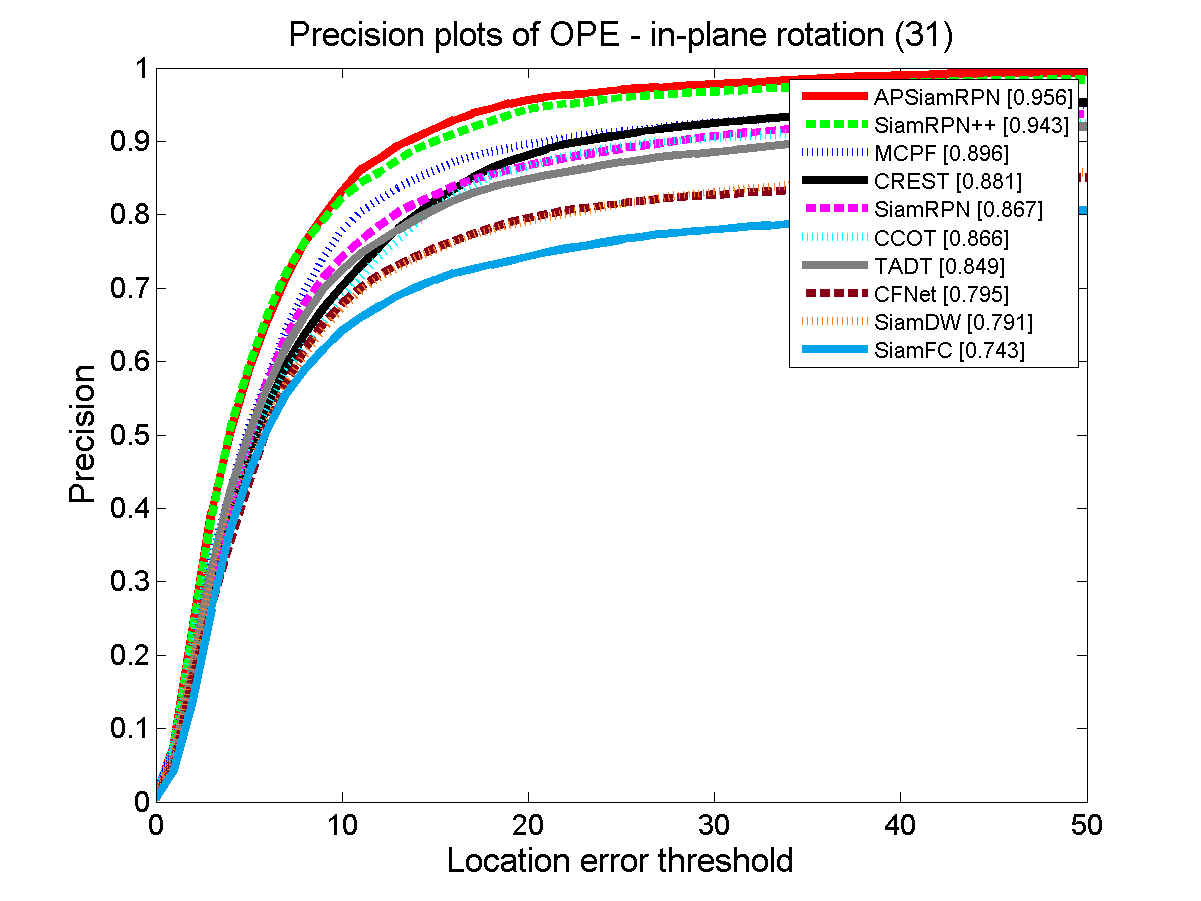
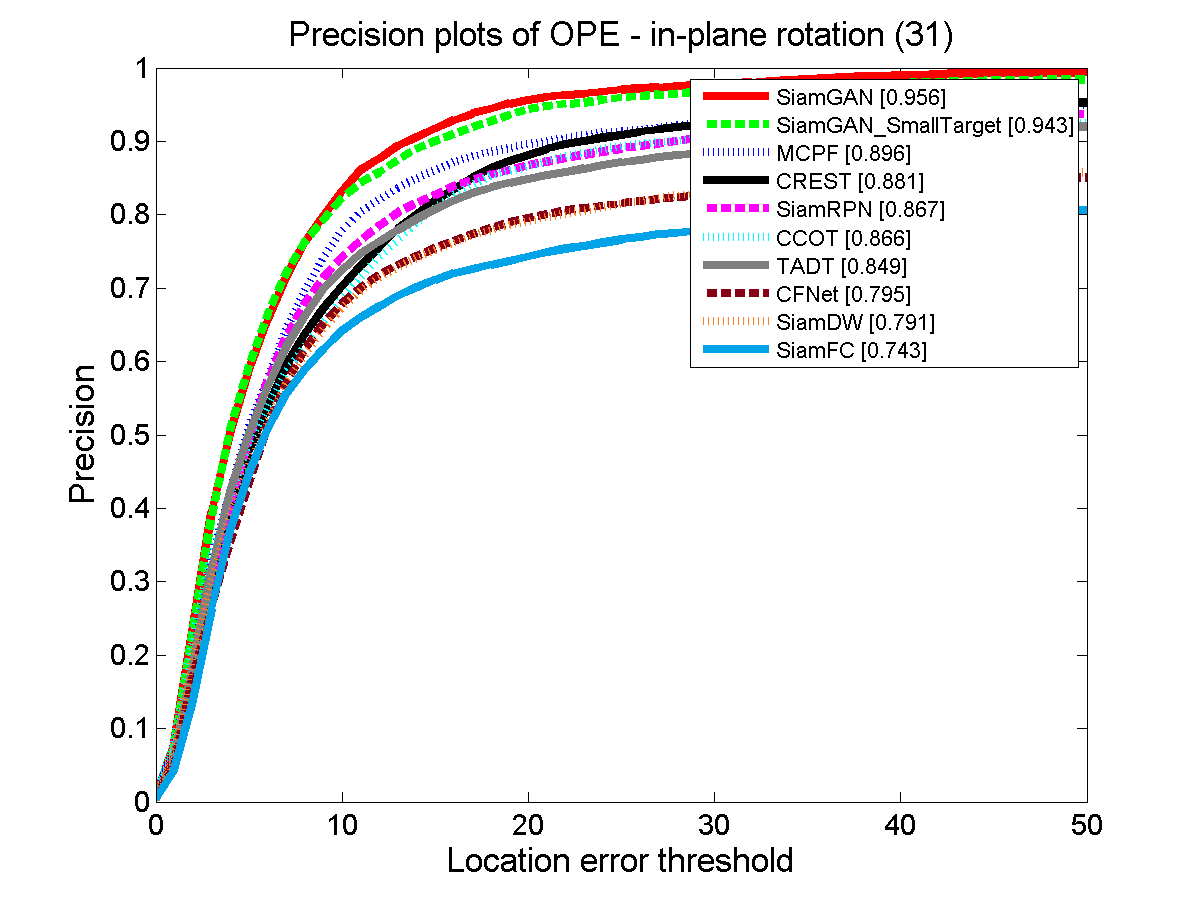
new

Changed region(s): [[0.5545, 0.0622, 0.8934, 0.404]]

diff --git a/tracker_benchmark_v1.0/perfPlot.m b/tracker_benchmark_v1.0/perfPlot.m
@@ -7,8 +7,9 @@ addpath('./util');
 attPath = '.\anno\att\'; % The folder that contains the annotation files for sequence attributes
 
 attName={'illumination variation'	'out-of-plane rotation'	'scale variation'	'occlusion'	'deformation'	'motion blur'	'fast motion'	'in-plane rotation'	'out of view'	'background clutter' 'low resolution'};
-
 attFigName={'illumination_variations'	'out-of-plane_rotation'	'scale_variations'	'occlusions'	'deformation'	'blur'	'abrupt_motion'	'in-plane_rotation'	'out-of-view'	'background_clutter' 'low_resolution'};
+% attName={'Small Target'	'Normal'	'scale variation'	'occlusion'	'deformation'	'motion blur'	'fast motion'	'in-plane rotation'	'out of view'	'background clutter' 'low resolution'};
+% attFigName={'Small Target'	'Normal'	'scale_variations'	'occlusions'	'deformation'	'blur'	'abrupt_motion'	'in-plane_rotation'	'out-of-view'	'background_clutter' 'low_resolution'};
 
 
 plotDrawStyleAll={   struct('color',[1,0,0],'lineStyle','-'),...

diff --git a/tracker_benchmark_v1.0/util/configTrackers.m b/tracker_benchmark_v1.0/util/configTrackers.m
@@ -8,8 +8,8 @@ trackersVIVID={struct('name','CCOT','namePaper','CCOT'),...%gray-25%
     struct('name','CIResNet22-FC','namePaper','SiamDW'),...%Turquoise
     struct('name','siamfc3s','namePaper','SiamFC'),...%Turquoise
     struct('name','SIAMRPN','namePaper','SiamRPN'),...%orange
-    struct('name','SiamRPN++','namePaper','SiamRPN++'),...%Turquoise
-    struct('name','SiamGAN','namePaper','APSiamRPN')%purple
+    struct('name','SiamRPN++','namePaper','SiamRPN++'),...%SiamRPN++ is real algorithm
+    struct('name','SiamGAN','namePaper','SiamGAN')%SiamGAN is real algorithm
 };
 
 trackers = [trackersVIVID];
